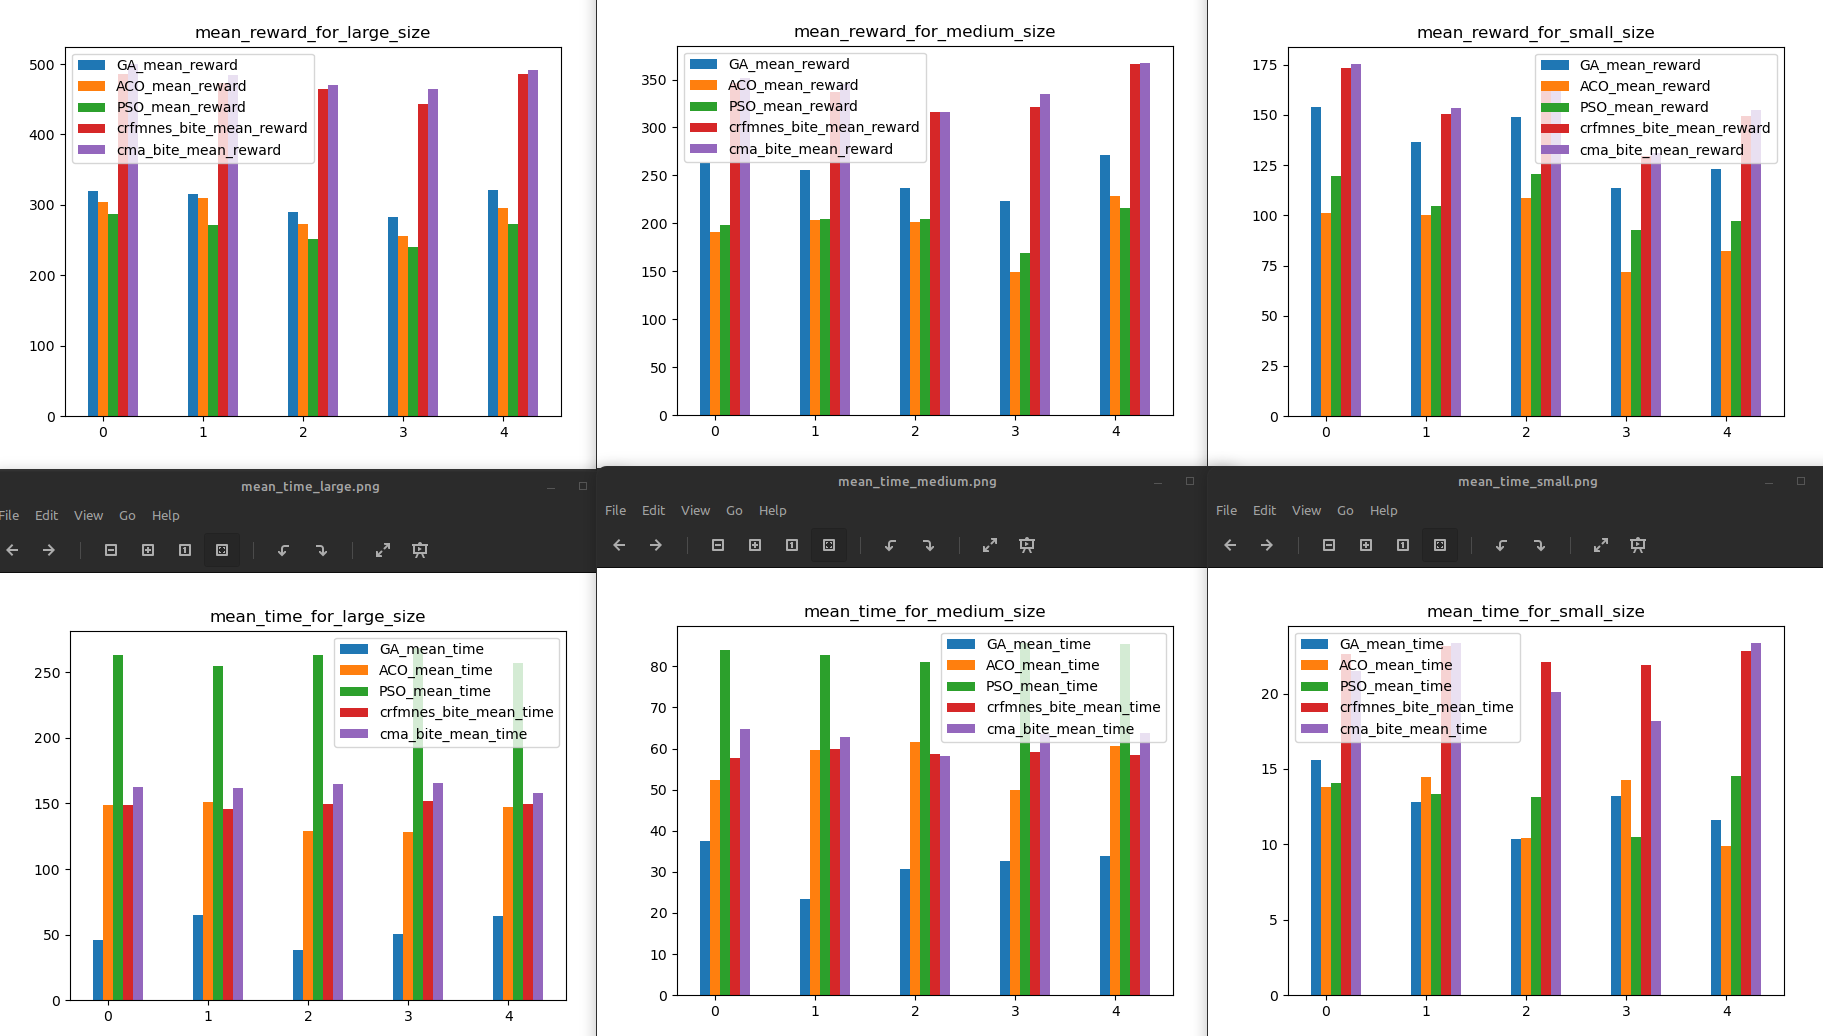
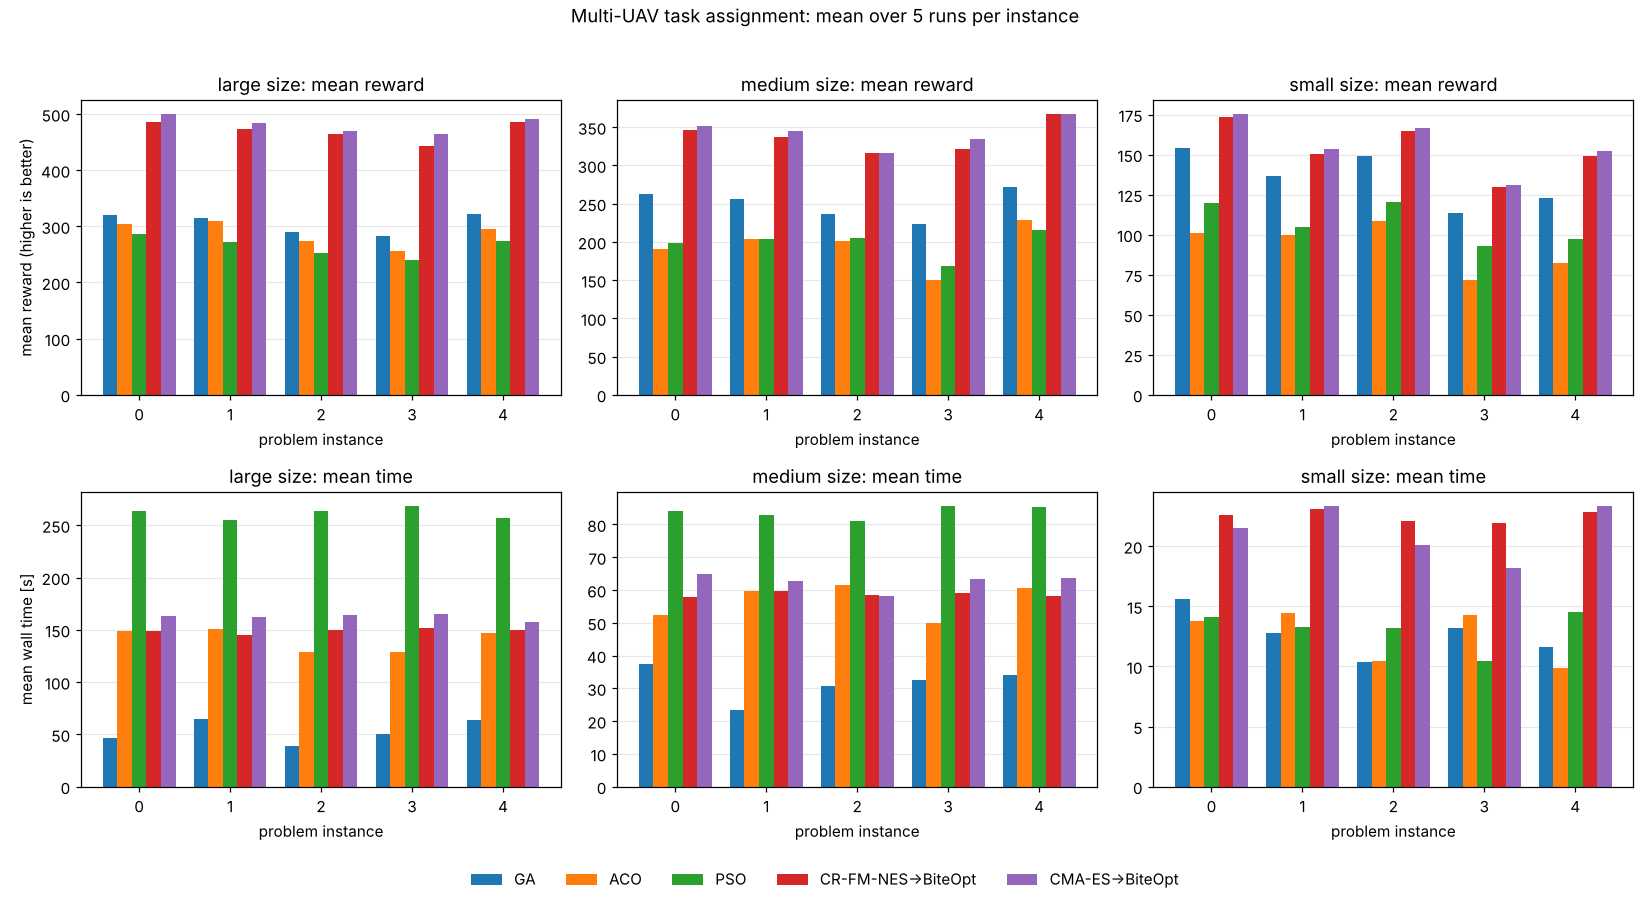
Make tutorial text and figures agree
A review of all 259 figures on the documentation site found text that
contradicts the figure it describes, a wrong image and a figure that
hides its own result:

- Scheduling: the SBM BiteOpt section showed the single-thread
  Bite1.png instead of sbmBite32.png.
- UAV: uav_reward.png was a screenshot of image-viewer windows whose
  legends covered the CR-FM-NES/CMA-ES→BiteOpt bars; redrawn from the
  Multi-UAV benchmark CSVs (same per-instance means).
- OneForAll, TopTrumps, EvoJax, MINLP, Employee: statements about
  timings, rankings and final scores now match the plots and tables.
- PAGMO: notes for a mislabelled y-axis and empty legend counters.
- CryptoTrading: the second run reused the first run's plot.

Claude-Session: https://claude.ai/code/session_01Sh6qH33kJz9A7ASFZcT5o4

diff --git a/CHANGELOG.md b/CHANGELOG.md
@@ -23,6 +23,12 @@ publishes that version to PyPI.
 
 ### Fixed
 
+- Tutorial text and figures that disagreed:
+  - Scheduling: the SBM BiteOpt section showed the single-thread `Bite1.png`; it now shows `sbmBite32.png`.
+  - UAV: `uav_reward.png` was a screenshot of six image-viewer windows whose legends covered the leading bars. It is redrawn from the Multi-UAV benchmark CSVs with the same means.
+  - Claims corrected to match the plots and tables they describe: OneForAll MMKP timing, TopTrumps random search at 20 s, EvoJax (cartpole hard, brax, waterworld, waterworld MA and the larger-budget runs), MINLP best run and Employee solve times.
+  - PAGMO notes a mislabelled axis and empty legend counters.
+  - CryptoTrading no longer shows the first run's plot as the second run's.
 - Section levels in `README.adoc` and seven tutorials skipped levels. Asciidoctor reported 86 "section title out of sequence" warnings, and the HTML went from `h1` straight to `h3`/`h4`. The levels now close the gaps and keep the original nesting. `scripts/build_docs.py` prints Asciidoctor warnings and fails on them (`--failure-level WARN`), so new ones stop the documentation build.
 - Broken GitHub links in the tutorials and the examples API page:
   - Files that were removed from this repository (`ascent.cpp`, `gcldecpp.py`, the old `Results.adoc`) now link to their last version.
